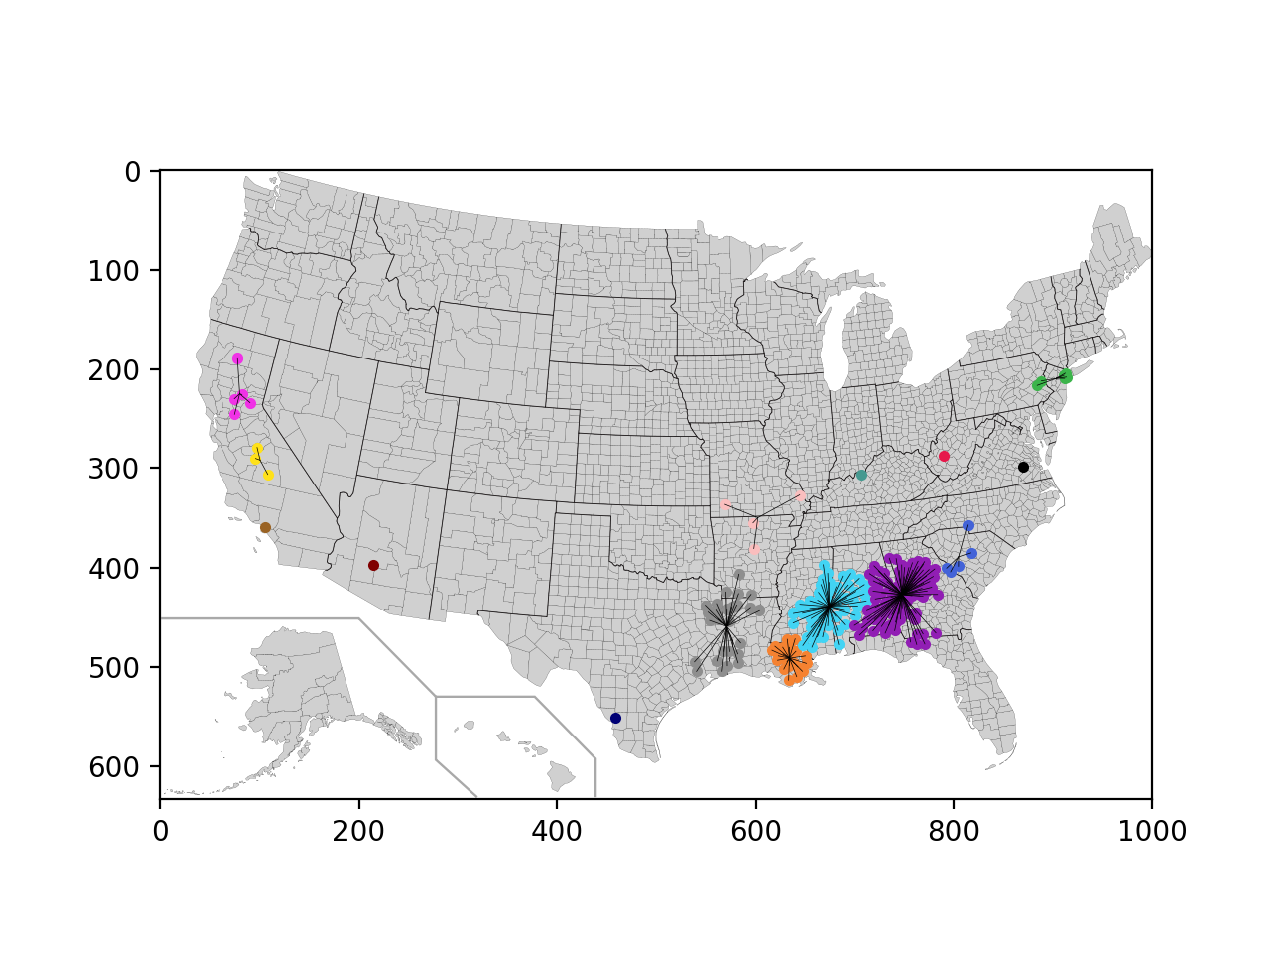
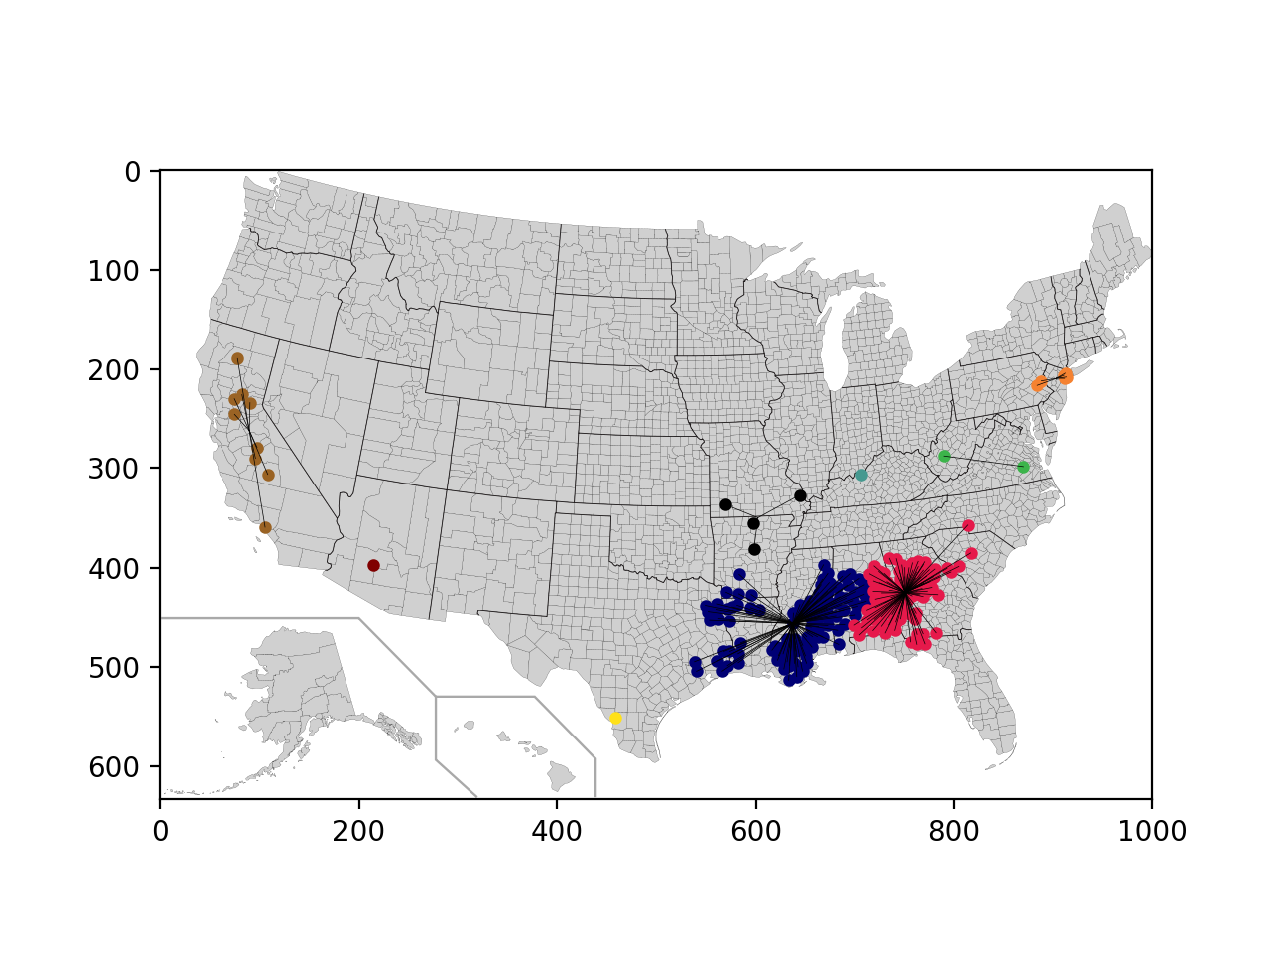
mancano domande 9-10

diff --git a/LAB4/src/Main.py b/LAB4/src/Main.py
@@ -10,16 +10,16 @@ dataset_full = Dataset.read_from_file("inputFiles/unifiedCancerData_3108.csv")
 dataset_212 = Dataset.read_from_file("inputFiles/unifiedCancerData_212.csv")
 dataset_562 = Dataset.read_from_file("inputFiles/unifiedCancerData_562.csv")
 dataset_1041 = Dataset.read_from_file("inputFiles/unifiedCancerData_1041.csv")
-
 print("Computing...")
-C1, t1, d1 = kmeans_clustering(dataset_562, 16, 5)
+C1, t1, d1 = kmeans_clustering(dataset_212, 9, 5)
 print("Time spent for kmeans clustering:", t1)
 print("Distortion for kmeans clustering:", d1)
 print("Drawing...")
 draw_clustering(C1)
 
+
 print("Computing...")
-C2, t2, d2 = hierarchical_clustering(dataset_562, 16)
+C2, t2, d2 = hierarchical_clustering(dataset_212, 9)
 print("Time spent for hierchical clustering:", t2)
 print("Distortion for hierchical clustering:", d2)
 print("Drawing...")
